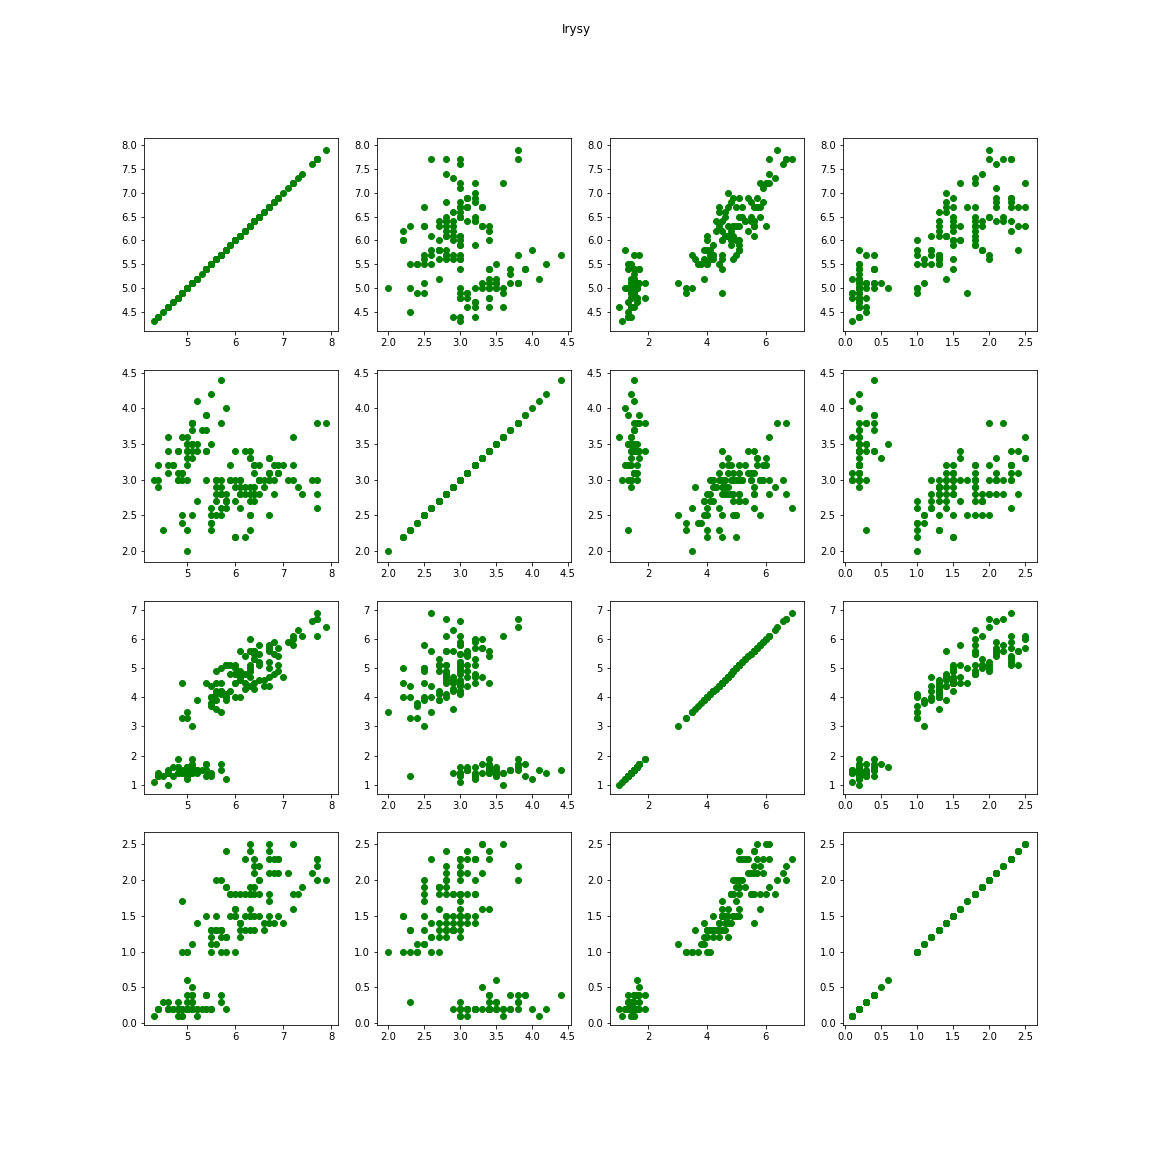
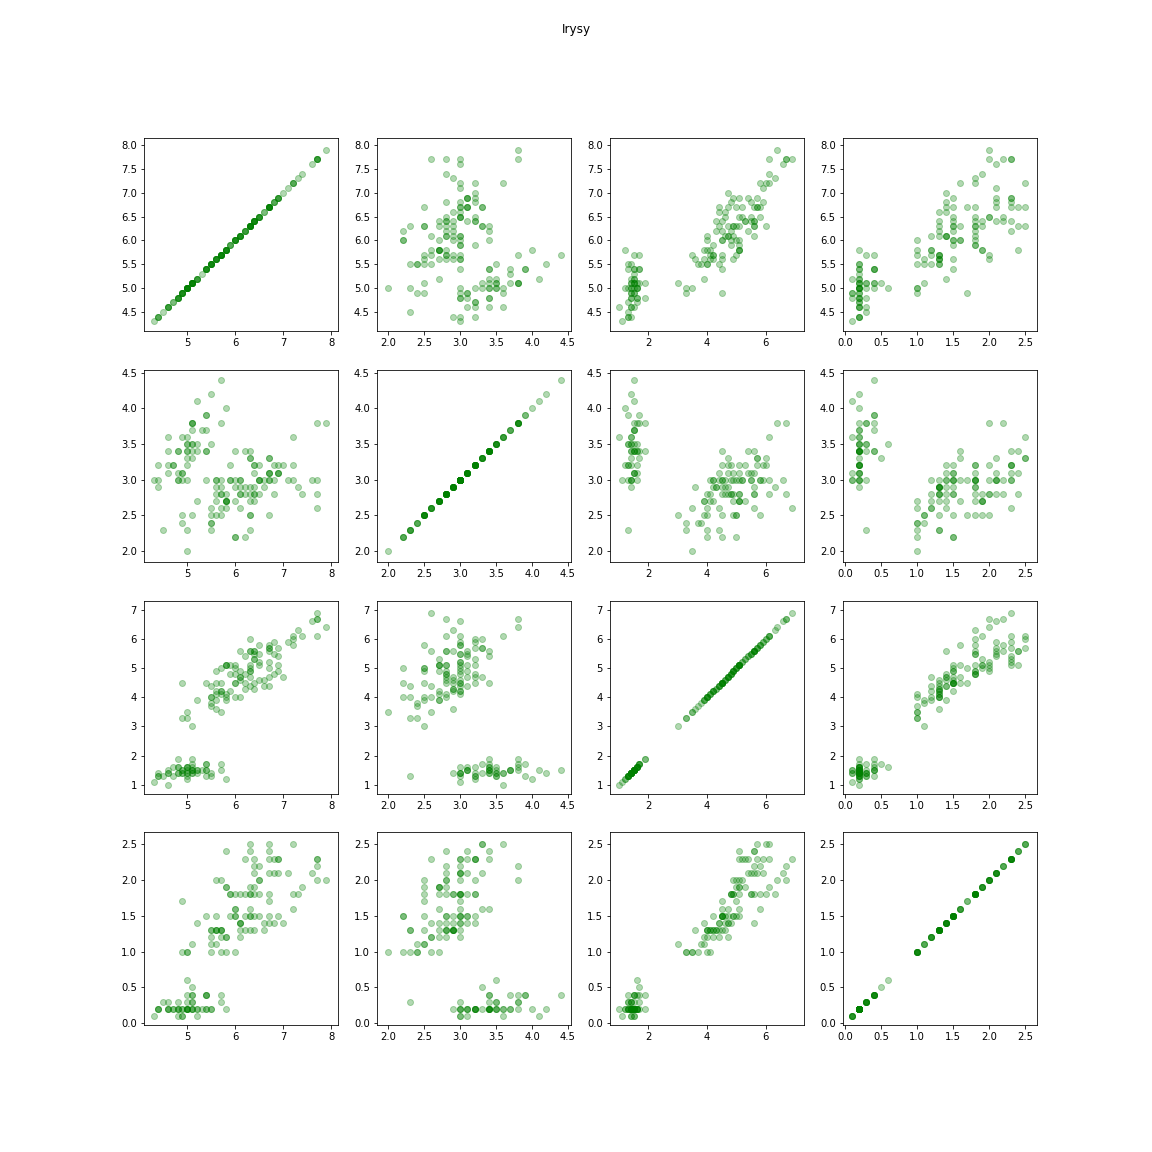
/python cala praca nad zadanie_4_04.py

diff --git a/lab_04/zadanie_4_04.py b/lab_04/zadanie_4_04.py
@@ -1,0 +1,114 @@
+import fun_mac
+import math
+import matplotlib.pylab as plt
+
+def wczytanie():
+    table = []
+    with open("iris.csv", "r") as dane:
+        for line in dane:
+            table.append(line.split(","))
+            for i in range(4):
+                table[len(table) - 1][i] = float(table[len(table) - 1][i])
+
+    table = fun_mac.transpose_m(table)
+    return table
+
+def druk_do_pliku(table, av):
+    plt.figure(figsize=[12, 6], dpi=72)
+
+    plt.subplot(1, 2, 1)
+    for i in range(50):
+        plt.scatter(table[0][i], table[2][i], color = "green", alpha=0.3)
+    for i in range(50, 100):
+        plt.scatter(table[0][i], table[2][i], color = "blue", alpha=0.3)
+    for i in range(100, 150):
+        plt.scatter(table[0][i], table[2][i], color="red", alpha=0.3)
+
+    for i in range(3):
+        plt.plot(av[0][i], av[2][i], markersize=25, color="#00000055", marker='o', linestyle='')
+
+    plt.subplot(1, 2, 2)
+    for i in range(50):
+        plt.scatter(table[1][i], table[3][i], color="green", alpha=0.3)
+    for i in range(50, 100):
+        plt.scatter(table[1][i], table[3][i], color="blue", alpha=0.3)
+    for i in range(100, 150):
+        plt.scatter(table[1][i], table[3][i], color="red", alpha=0.3)
+
+    for i in range(3):
+        plt.plot(av[1][i], av[3][i], markersize=25, color="#00000055", marker='o', linestyle='')
+
+
+    plt.suptitle('Irysy')
+    plt.savefig("output3.png")
+
+def srednie(T):
+    out = [ [0] * 3 for i in range(4) ]
+
+    for i in range(4):
+        for j in range(3):
+            sr = 0
+            for k in range(50):
+                sr += T[i][k + j*50]
+            out[i][j] = sr/50
+    return out
+
+def euk(zero, p):
+    suma = 0
+    for i in range(4):
+        suma += (p[i]-zero[i])**2
+    return math.sqrt(suma)
+
+
+
+iris = wczytanie()
+t_iris = fun_mac.transpose_m(iris)
+"""
+iris:
+5.1 4.9 ...
+3.5 3.0 ...
+1.4 1.4 ...
+0.2 0.2 ...
+"""
+
+sr_m = srednie(iris)
+t_sr_m = fun_mac.transpose_m(sr_m)
+"""
+sr_m:
+5.0059 5.936 6.5879
+3.428  2.77  2.9739
+1.462  4.26  5.5519
+0.2459 1.325 2.0259
+"""
+#sr_m[0] = [5, 3.4, 1.4, 0.25]
+d = [[ [0]*50 for i in range(3) ] for j in range(3)]
+"""
+d:
+Sa takie 3:
+0.14 0.44 0.41 ...
+3.98 3.57 4.13 ...
+5.23 4.13 5.26 ...
+"""
+for k in range(3):
+    for i in range(3):
+        for j in range(50):
+            d[k][i][j] = euk(t_sr_m[k], t_iris[i*50 + j])
+
+jaki_kwiat = [ [None]*50 for i in range(3) ]
+
+for k in range(3):
+    for j in range(50):
+        mini = math.inf
+        kwiat = None
+        for i in range(3):
+            if d[k][i][j] < mini:
+                mini = d[k][i][j]
+                jaki_kwiat[k][j] = i
+
+
+fun_mac.print_m(jaki_kwiat)
+
+
+#druk_do_pliku(iris, sr_m)
+
+

diff --git a/lab_04/zadanie_4_02.py b/lab_04/zadanie_4_02.py
@@ -31,7 +31,7 @@ def druk_do_pliku(table):
             plt.subplot(4, 4, n * 4 + m + 1)
 
             for i in range(len(table[0])):
-                plt.scatter(table[m][i], table[n][i], color = "green")
+                plt.scatter(table[m][i], table[n][i], color = "green", alpha=0.3)
 
             #plt.plot(prost[n][m][1] + prost[n][m][0] * min(table[m]), prost[n][m][1] + prost[n][m][0] * max(table[m]), color="red")
 
